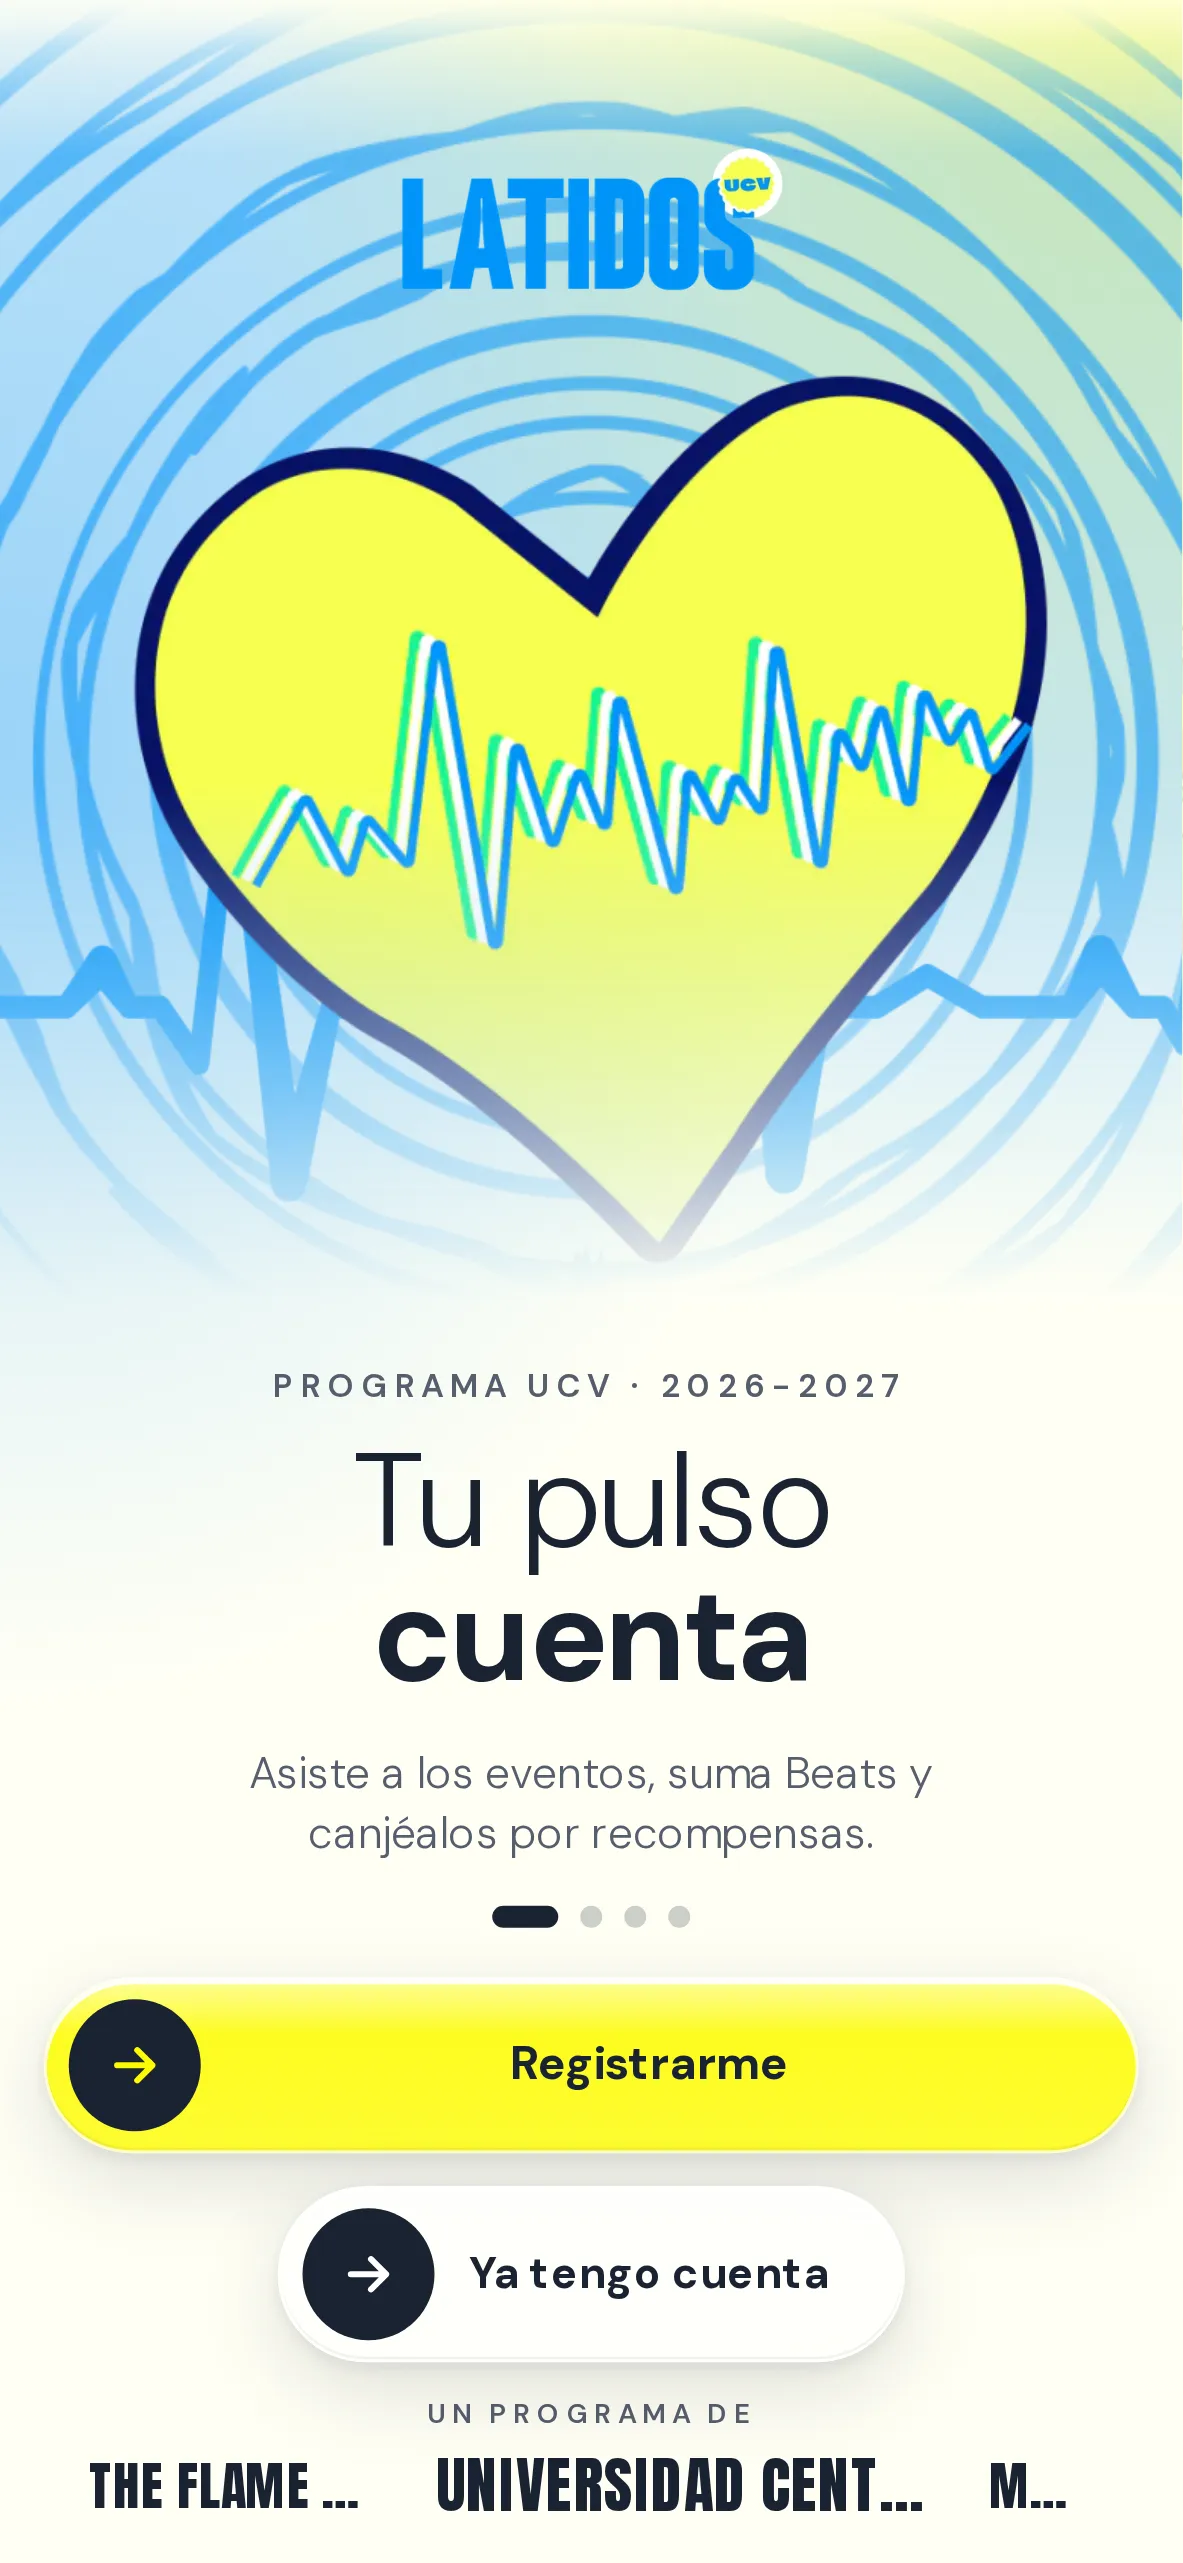
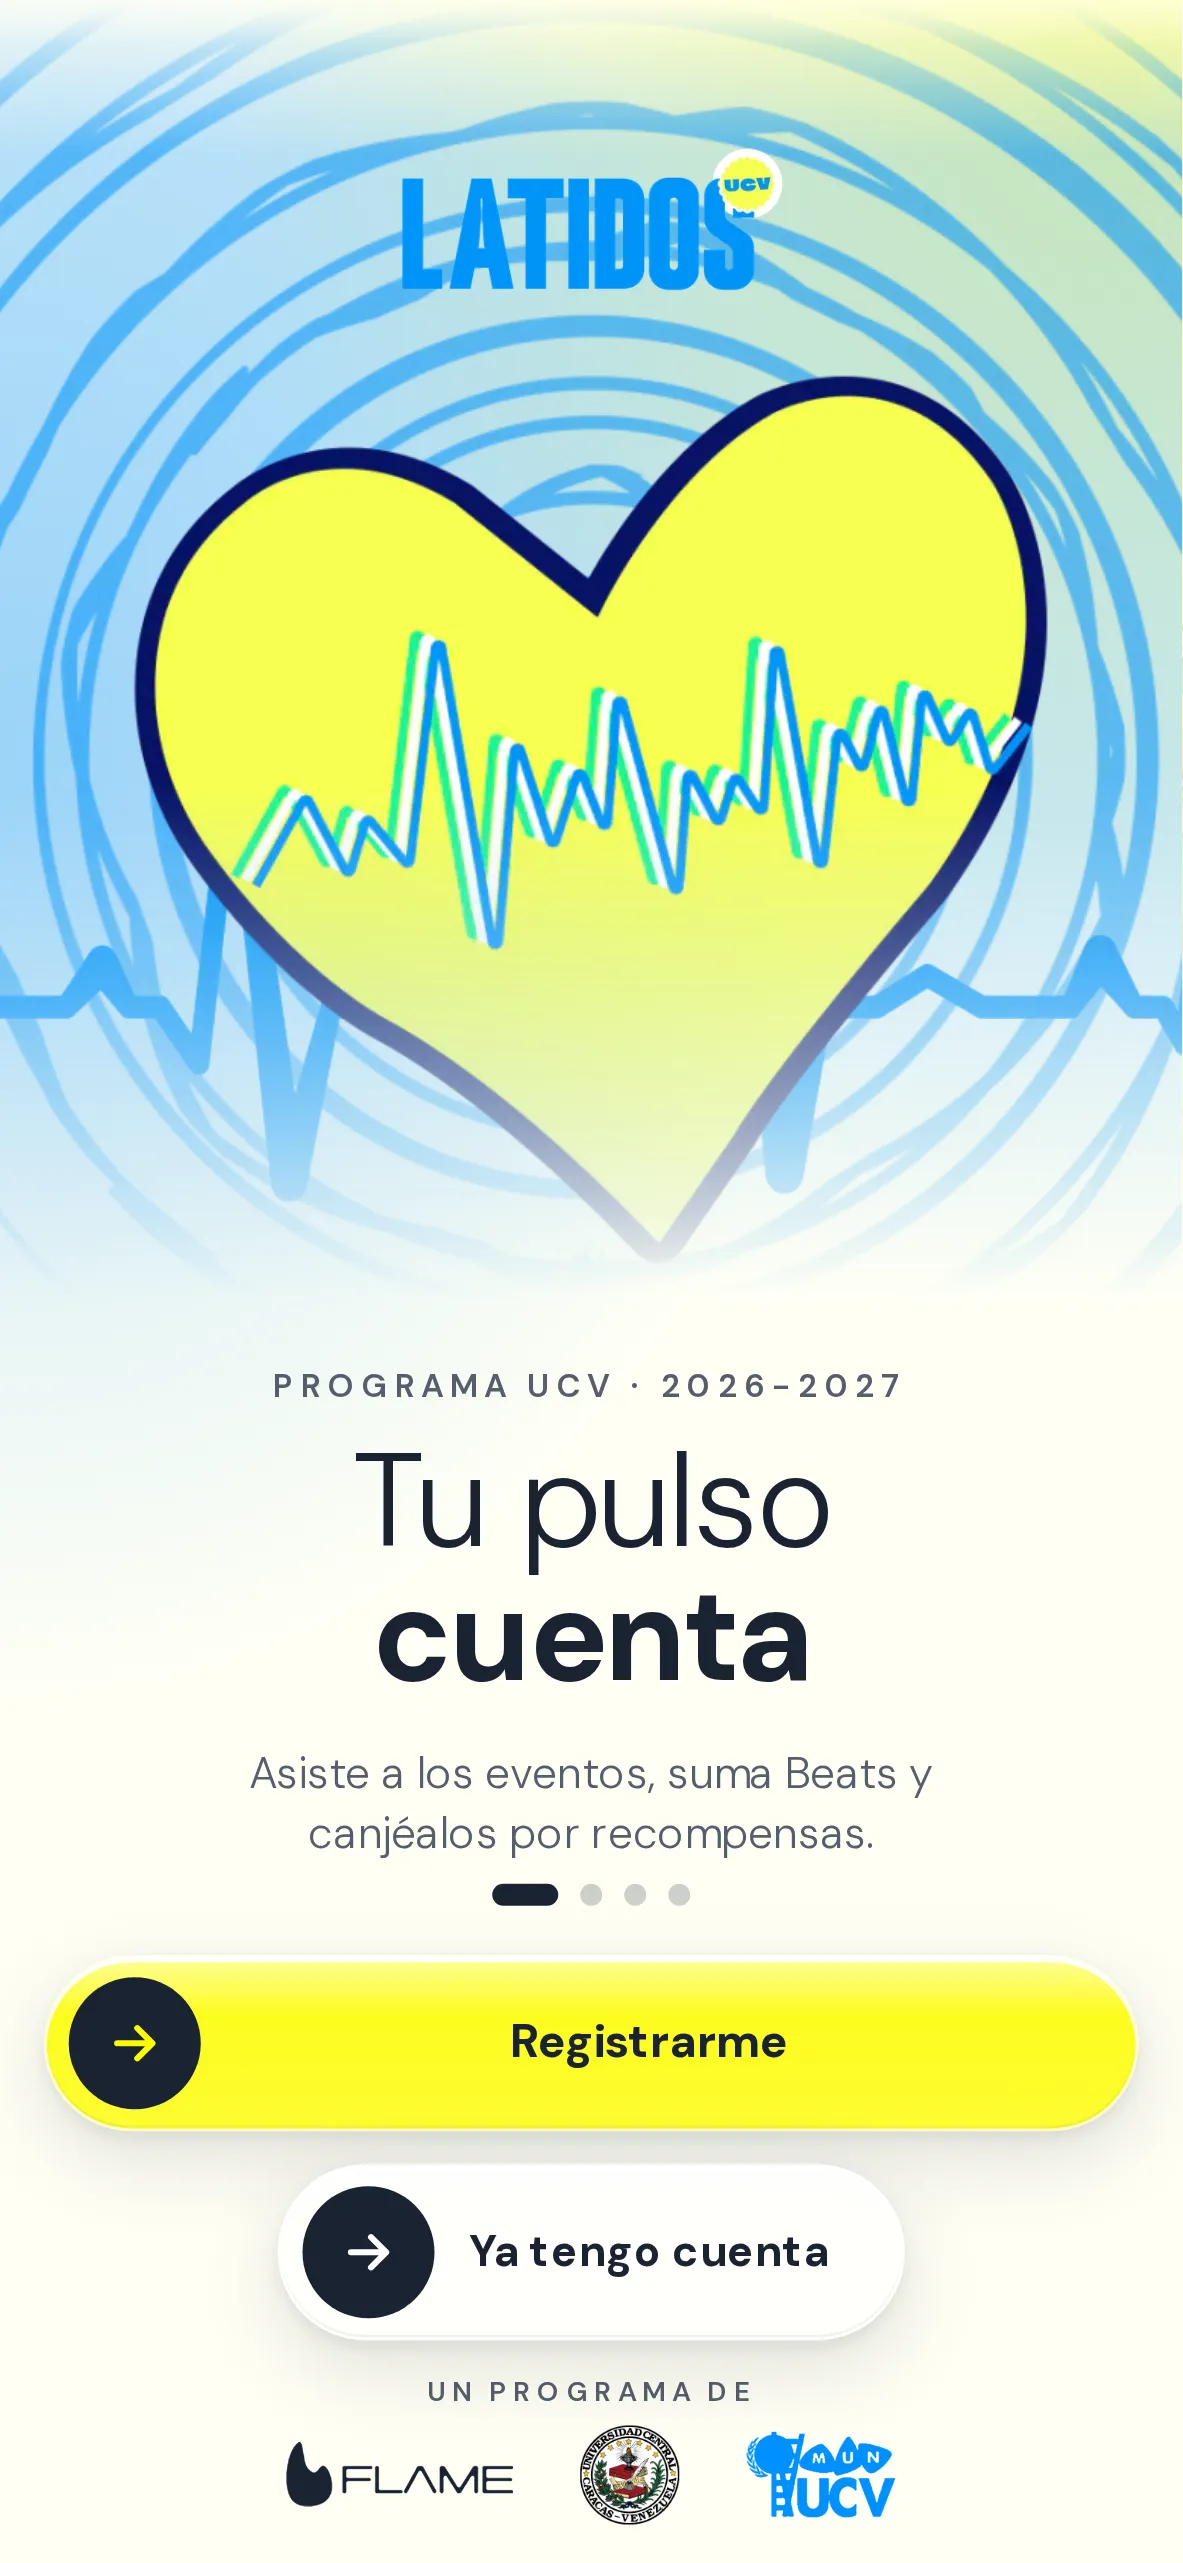
Capturas: borde con zona segura de 59px, pie y pantalla de carga
Claude-Session: https://claude.ai/code/session_01MjPohwTchT6wJJF3ogpPYg

Changed region(s): [[0.0304, 0.7179, 0.9738, 0.9988], [0.0913, 0.9364, 0.3043, 0.9988], [0.8216, 0.9676, 0.8825, 0.9988]]

diff --git a/docs/capturas-bienvenida/LEEME.md b/docs/capturas-bienvenida/LEEME.md
@@ -1,0 +1,29 @@
+# Capturas de la bienvenida y de la pantalla de carga
+
+Hechas en Chromium (Playwright) contra `next start`; WebKit no esta disponible
+en el entorno de pruebas. Las genera `tests/integracion/zz-capturas-*.test.ts`
+(scripts locales, fuera del repo) con `SALIDA=<carpeta>`.
+
+- `bienvenida-N-AxB.webp`: lamina N a ese tamaño.
+- `borde-N-390x844-sin-zona.webp` / `-zona59.webp`: las 4 laminas sin zona
+  segura y con una zona segura de arriba de 59px (iPhone 14 Pro en adelante),
+  emulada con CDP (`Emulation.setSafeAreaInsetsOverride`).
+  `borde-1-320x568-zona59.webp`: lo mismo a 320 x 568.
+- `pie-AxB.webp` y `pie-logos-zoom.webp`: el pie con los logos de los aliados.
+- `splash-overlay-AxB.webp`: el overlay de carga. Chromium no emula
+  `display-mode: standalone`: se capturo sin JavaScript (antes de hidratar) y
+  con esa media query reescrita a `all` en el HTML.
+
+## Checklist para validar en el iPhone
+
+1. [ ] Borrar la app y volver a añadirla desde Safari (Compartir > Añadir a
+       pantalla de inicio). iOS guarda las imagenes de arranque al instalar:
+       sin reinstalar NO se ven las nuevas.
+2. [ ] Cerrar la app del todo y abrirla: aparece el icono centrado sobre el
+       fondo crema, amarillo y azul, en lugar de blanco.
+3. [ ] De la imagen de arranque al overlay no hay salto visible, y el overlay
+       se desvanece al cargar.
+4. [ ] Las 4 laminas, sin corte duro bajo la barra de estado; la hora y la
+       bateria se leen.
+5. [ ] Los 3 logos del pie se leen en tu modelo.
+6. [ ] En Safari, sin instalar, no aparece la pantalla de carga.
